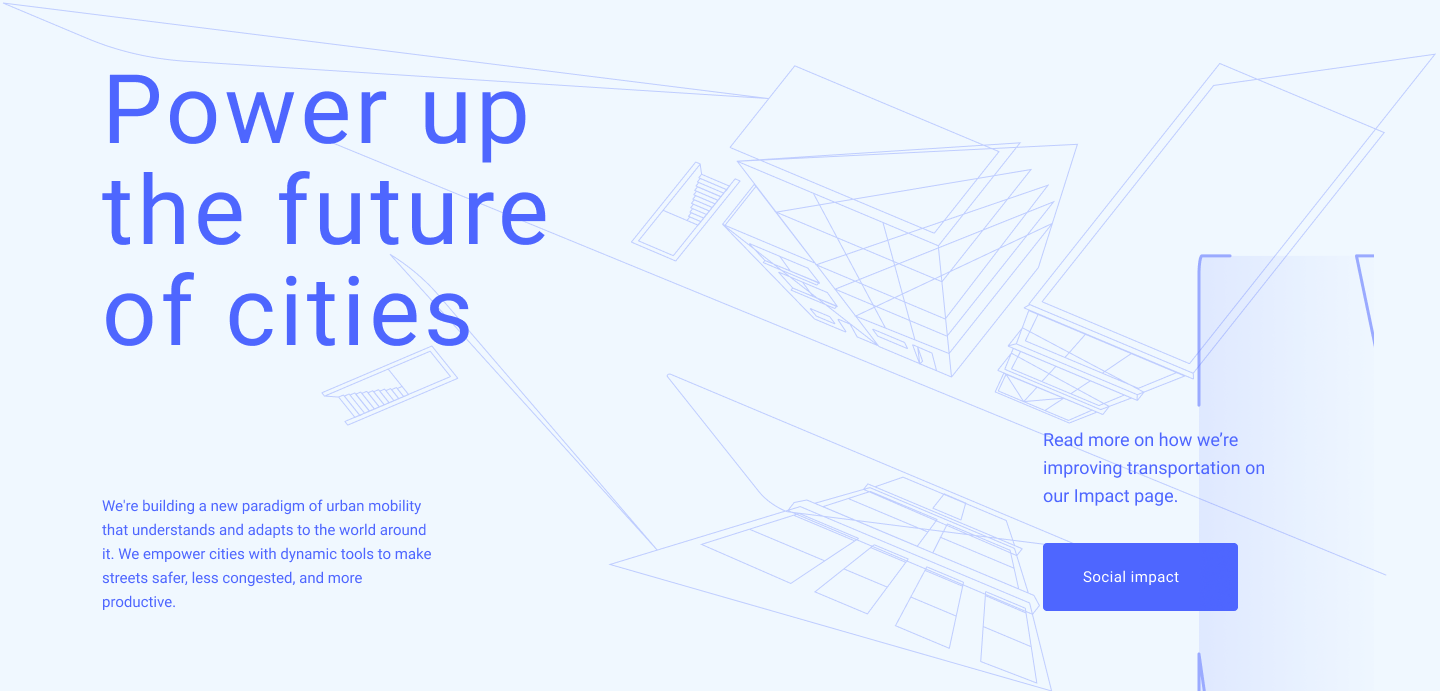
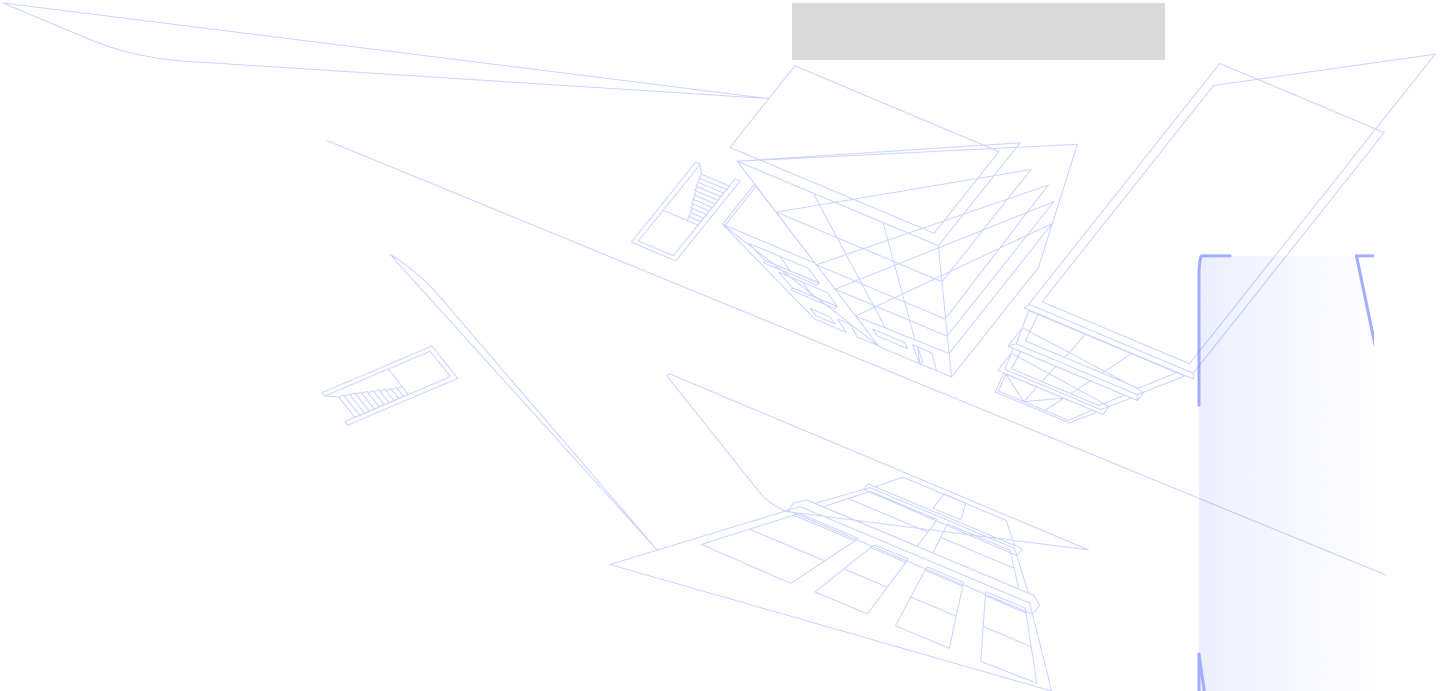
typography stylization was added for the section

diff --git a/src/sections/home/FutureSection.vue b/src/sections/home/FutureSection.vue
@@ -1,11 +1,21 @@
 <template>
-	<v-sheet>
-		<h2>{{ sectionContent.title }}</h2>
-		<p>
-			{{ sectionContent.text }}
-		</p>
-		<p>{{ sectionContent.subtitle }}</p>
-		<v-btn>{{ sectionContent.btn_text }}</v-btn>
+	<v-sheet class="secondary-bg vade-bg-future vade-pt-14 vade-pb-19">
+		<h2
+			class="original-title vade-h2 vade-lh-101 vade-ls-384 font-weight-regular vade-max-width-500"
+		>
+			{{ sectionContent.title }}
+		</h2>
+		<div class="d-flex justify-space-between align-end">
+			<p class="vade-base-text vade-lh-24 original-text vade-max-width-350">
+				{{ sectionContent.text }}
+			</p>
+			<div>
+				<p class="vade-base-text vade-lh-28 original-text vade-max-width-200">
+					{{ sectionContent.subtitle }}
+				</p>
+				<v-btn>{{ sectionContent.btn_text }}</v-btn>
+			</div>
+		</div>
 	</v-sheet>
 </template>
 
@@ -17,4 +27,31 @@ const store = useStore();
 const sectionContent = store.state.sections.future;
 </script>
 
-<style></style>
+<style>
+.vade-bg-future {
+	background-image: url('../../assets/bg-2.png') !important;
+	background-position: center !important;
+	background-size: cover !important;
+	background-repeat: no-repeat !important;
+}
+
+.vade-pt-14 {
+	padding-top: 56px;
+}
+
+.vade-pb-19 {
+	padding-bottom: 76px;
+}
+
+.vade-max-width-500 {
+	max-width: 500px;
+}
+
+.vade-max-width-350 {
+	max-width: 350px;
+}
+
+.vade-max-width-200 {
+	max-width: 200px;
+}
+</style>

diff --git a/src/assets/index.css b/src/assets/index.css
@@ -231,7 +231,7 @@
 }
 
 .secondary-bg {
-  background-color: var(--secondary-bg);
+  background-color: var(--secondary-bg) !important;
 }
 
 .original-bg {
